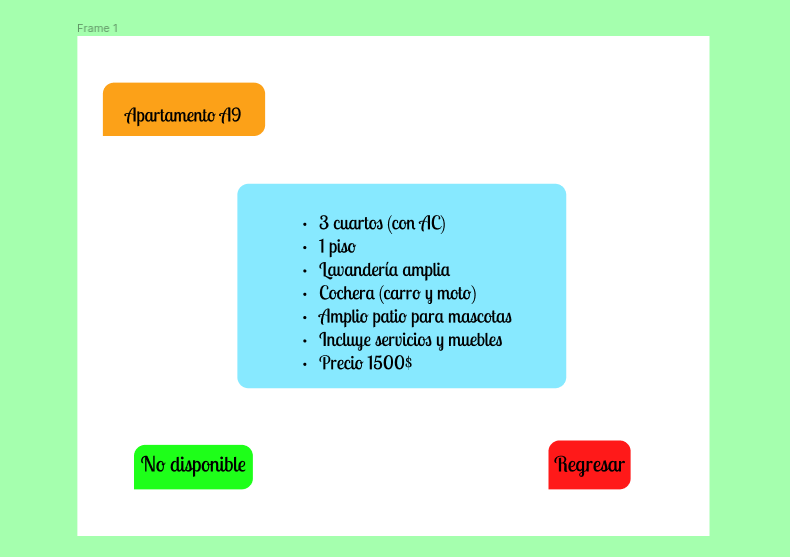
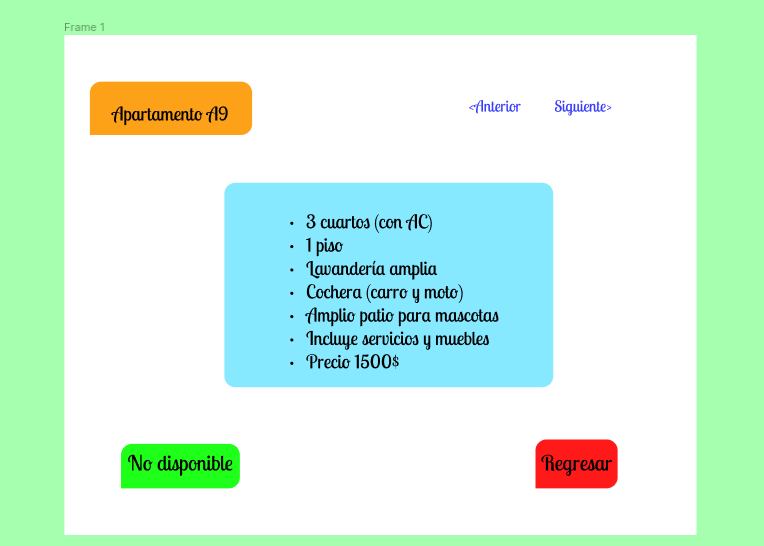
Editando Readme

diff --git a/Propuesta/README.md b/Propuesta/README.md
@@ -32,8 +32,20 @@ Los espacios para rellenar la información tendrán una expresión regular (cuan
 
 ### Vista administrador
 - Cuando el administrador se registra le aparecerán 3 botones. El primero ``Añadir apartamento`` le permite crear un nuevo apartamento con el uso de una clase: ``add_Aparta`` que tendrá todo lo necesario (métodos) para añadir las características a un nuevo hogar. El botón ``Eliminar apartamento`` básicamente eliminará la información de cierto apartamento. El botón ``Ver información actual`` accederá al estado actual de los apartamentos, imprimirá la información sobre cuales apartamentos están disponibles y cuales no. Luego, el botón ``Salir`` cierra sesión y se mostrará la página de inicio.
+![App Screenshot](https://github.com/JosueC07183/ProyectoIE0217/blob/main/Propuesta/Images/Vista_Admi.png?raw=true)
 
+### Vista cliente
+- Se espera que el cliente al registrarse observe dos botones donde le permitan ver la información de los apartamentos disponibles y lo que están en construcción. El botón ``Salir`` cierra sesión y se vuelve a mostrar la página de inicio.
+![App Screenshot](https://github.com/JosueC07183/ProyectoIE0217/blob/main/Propuesta/Images/vista_cliente.png?raw=true)
 
+Ahora, si el cliente presiona el botón ``Apartamentos disponibles`` se mostrará lo siguiente:
+![App Screenshot](https://github.com/JosueC07183/ProyectoIE0217/blob/main/Propuesta/Images/vista_cliente2.png?raw=true)
+
+Donde podrá observar los apartamentos disponibles por el momento, suponiendo que desea ver los detalles del apartamento A1, entonces el cliente visualizará lo siguiente:
+![App Screenshot](https://github.com/JosueC07183/ProyectoIE0217/blob/main/Propuesta/Images/vista_cliente3.png?raw=true)
+
+Donde aparecerá el botón: ``Alquilar``, si el cliente presiona este botón la información se actualiza a nivel administrativo y para los demás clientes. Es decir, cuando el administrador ingresa podrá ver que el apartamento A1 está alquilado por cierto cliente (en realidad podrá ver toda la información de éste), mientras que si otro cliente desea ver la disponibilidad del apartamento A1, entonces lo que se le mostrará será un mensaje de advertencia que diga: **El apartamento no está disponible**. Ahora, si el cliente no desea alquilar el apartamento que está viendo en ese momento entonces con darle click al botón ``Regresar`` se mostrará la ventana con la información de los apartamentos y si vuelve a presionar el botón ``Regresar`` llegará a la ventana donde están los apartamentos disponibles y en construcción. Suponiendo que desea ver los apartamentos en construcción, entonces el cliente verá los datos del apartamento en proceso, el botón ``No disponible`` no hará nada, los botones superiores de *<Anterior* y *Sigueinte>* son para ver los demás apartamentos que se encuentran en construcción y finalmente el botón ``Regresar`` hace el mismo procedimiento descrito anteriormente.
+![App Screenshot](https://github.com/JosueC07183/ProyectoIE0217/blob/main/Propuesta/Images/vista_cliente4.png?raw=true)
 
 
 
